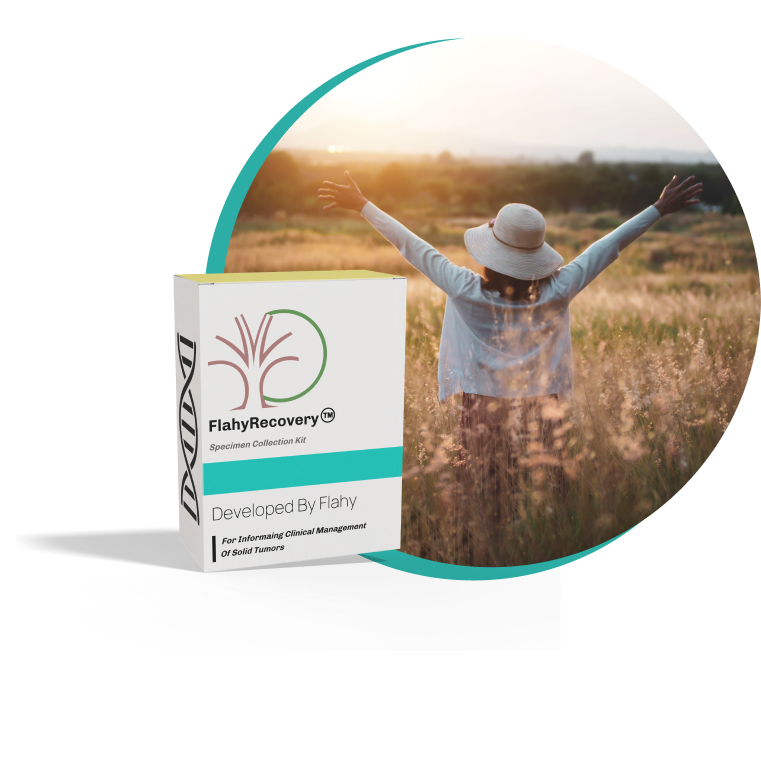
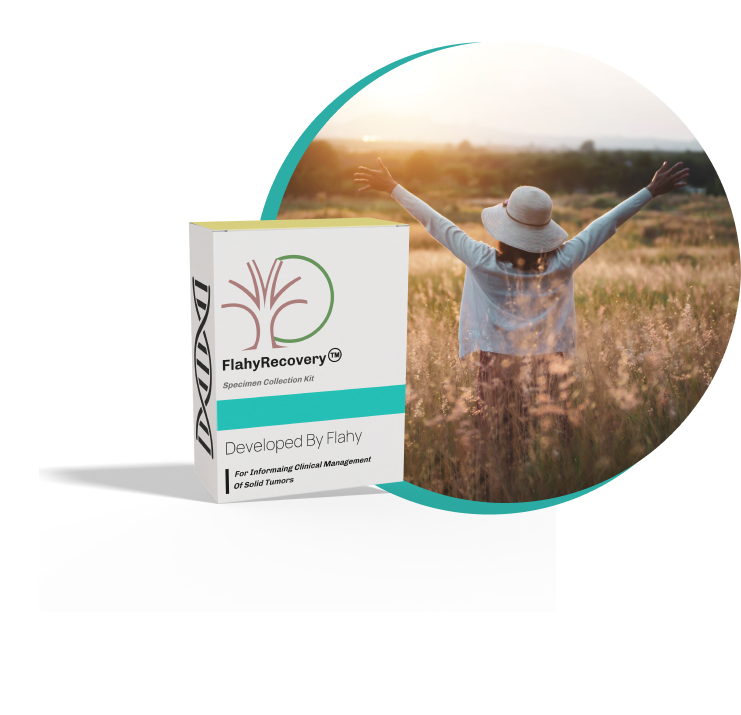
Coming soon pages' UI fixes

Changed region(s): [[0.031, 0.0308, 1.0, 0.7692], [0.9001, 0.1538, 0.9312, 0.1846]]

diff --git a/src/components/LandingPage.js b/src/components/LandingPage.js
@@ -1,19 +1,64 @@
-import React, { useRef } from 'react';
+import React, { useRef, useState } from 'react'; // <-- Make sure to import useState here
 import '../styles/LandingPage.css';
 import HomeEffect from './HomeEffect';
 
 const LandingPage = () => {
     const emailSectionRef = useRef();
     const emailRef = useRef(null);
+    const [email, setEmail] = useState(""); // Track email input
+    const [loading, setLoading] = useState(false); // Track submission state
+    const [error, setError] = useState(""); // Track error message
+    const [success, setSuccess] = useState(""); // Track success message
+    // Email validation regex pattern
+    const emailPattern = /^[a-zA-Z0-9._%+-]+@[a-zA-Z0-9.-]+\.[a-zA-Z]{2,}$/;
+
     const handleRegisterClick = () => {
         if (emailRef.current) {
             emailRef.current.scrollIntoView({ behavior: "smooth" });
             emailRef.current.focus();
         }
-        if (emailSectionRef) {
+        if (emailSectionRef.current) {
             emailSectionRef.current.classList.add("focussed");
         }
-    }
+    };
+
+    const handleSubmit = async () => {
+        setError(""); // Clear any previous error
+        setSuccess(""); // Clear any previous success
+
+        // Validate email format
+        if (!email || !emailPattern.test(email)) {
+            setError("Please enter a valid email address.");
+            return;
+        }
+
+
+        setLoading(true);
+
+        try {
+            const response = await fetch("https://api-flahyrecovery.lusites.xyz/show-interest", {
+                method: "POST",
+                headers: {
+                    "Content-Type": "application/json",
+                },
+                body: JSON.stringify({ email }), // Sending email as JSON payload
+            });
+
+            if (response.ok) {
+                setSuccess("We will contact you soon!");
+                setEmail(""); // Clear the input after successful submission
+            } else {
+                const errorData = await response.json();
+                setError(errorData.message || "There was an issue. Please try again.");
+            }
+        } catch (error) {
+            console.error("Error sending email:", error);
+            setError("Something went wrong. Please try again later.");
+        } finally {
+            setLoading(false);
+        }
+    };
+
     return (
         <>
             <HomeEffect />
@@ -28,6 +73,7 @@ const LandingPage = () => {
                 </header>
 
                 <div className="content">
+                <img className="circle-bg" src="/bg-circle.png" alt="FlahyRecovery" />
                     <div className="container coming-soon">
                         <div className="text-section">
                             <h1>Coming Soon..</h1>
@@ -37,9 +83,8 @@ const LandingPage = () => {
                             <p>
                                 <span>
                                     FlahyRecovery™ is an algorithmic immune subtyping test that leverages
-                                    Artificial Intelligence to analyze the Tumor Microenvironment (TME).
-                                </span>
-                                The report aids in designing a precise treatment and improving health
+                                    Artificial Intelligence to analyze the <br/>Tumor Microenvironment (TME).
+                                </span> The report aids in designing a precise treatment and improving health
                                 outcomes.
                             </p>
                             <button onClick={handleRegisterClick} className="register-button">Register Interest</button>
@@ -64,12 +109,23 @@ const LandingPage = () => {
                     <div ref={emailSectionRef} className="email-section">
                         <input
                             ref={emailRef}
-                            id='email-input'
                             type="email"
                             placeholder="Enter Your Email for Latest Update"
                             className="email-input"
+                            value={email}
+                            onChange={(e) => setEmail(e.target.value)} // Update email state on change
                         />
-                        <button className="submit-button">Submit</button>
+                        <button
+                            className="submit-button"
+                            onClick={handleSubmit}
+                            disabled={loading} // Disable button while loading
+                        >
+                            {loading ? 'Submitting...' : 'Submit'}
+                        </button>
+                    </div>
+                    <div className='alert-message'>
+                        {error && <p className="error-message">{error}</p>}
+                        {success && <p className="success-message">{success}</p>}
                     </div>
                     <div className="footer-text">
                         <p>2024 © Flahy. All Rights Reserved | Powered By <a rel='noreferrer' target='_blank' href='https://www.flahybase.com'><u>Flahybase.com</u></a></p>

diff --git a/src/styles/LandingPage.css b/src/styles/LandingPage.css
@@ -7,6 +7,7 @@ body {
   font-family: "Montserrat", Inter;
   color: #333;
   background-image: url(../../public/bg.svg);
+  background: radial-gradient(circle at 20% 50%, #FFECB9, transparent 70%), radial-gradient(circle at 80% 50%, #2CAEA6, transparent 70%);
   background-size: cover;
   background-position: center;
   background-repeat: no-repeat;
@@ -34,9 +35,17 @@ body {
 .header {
   padding: 10px;
   background-color: #fff;
-  z-index: 15;
+  z-index: 9999;
   position: sticky;
   top: 0;
+}
+.circle-bg{
+    position: absolute;
+    width: 1200px;
+    z-index: 999;
+    left: 0;
+    top: 0;
+    opacity: .85;
 }
 
 .logo img {
@@ -59,14 +68,14 @@ body {
   align-items: center;
   justify-content: space-around;
   padding: 20px;
-  height:780px;
+  min-height: calc(100vh - 283px);
 }
 
 .text-section {
-  z-index: 10;
+  z-index: 999;
   text-align: left;
   background-image: url("/public/shadowBg.png");
-  background-color: rgb(255 255 255 / 57%);
+  /* background-color: rgb(255 255 255 / 57%); */
   padding: 45px 25px;
   border-radius: 10px;
   background-size: cover;
@@ -157,7 +166,7 @@ body {
   padding: 20px;
   background: #fff;
   text-align: center;
-  z-index: 10;
+  z-index: 9999;
 }
 
 .footer p {
@@ -218,7 +227,23 @@ body {
   padding-top: 25px;
   margin-bottom: 0;
 }
-
+.alert-message {
+  display: flex;
+    align-items: center;
+    max-width: 448px;
+    margin: 0 auto;
+}
+.alert-message  p {
+  margin: 5px 0;
+  color: #007c00;
+  font-size: 14px;
+  font-weight: 400;
+}
+.alert-message p.error-message {
+  color: #ff0000cc;
+  font-size: 14px;
+  font-weight: 400;
+}
 /* Responsive Styles */
 @media (max-width: 1599px) {
   .product-box img {
@@ -227,6 +252,13 @@ body {
   .content {
     height: 600px;
   }
+}
+@media (min-width: 1660px) {
+.content {
+    height: calc(100vh - 320px);
+    min-height: auto;
+  }
+  
 }
 
 @media all and (max-width: 1280px) {
@@ -239,6 +271,9 @@ body {
 }
 
 @media all and (max-width: 991px) {
+  .circle-bg {
+    width: 700px;
+  }
   .container {
     flex-direction: column;
     align-items: flex-start;
@@ -274,9 +309,19 @@ body {
 
 }
 @media (max-width: 768px) {
-  .content {
-    flex-direction: column;
-  }
+  body {
+    color: #333;
+    background-image: url(http://localhost:3000/static/media/bg.95bde9c54bb2106d6393.svg);
+}
+.circle-bg{
+  display: none;
+}
+.content {
+  padding: 50px 0px 0px 0px;
+  align-items: baseline;
+  height: auto;
+  flex-direction: column;
+}
   .text-section h1 {
     font-size: 26px;
 }
@@ -296,5 +341,14 @@ body {
   .image-circle {
     margin-right: 0;
     margin-bottom: 20px;
+  }
+}
+
+@media (max-width: 480px) {
+  .email-input, .email-input:focus {
+    font-size: 14px;
+  }
+  .submit-button, .submit-button:hover {
+    padding: 13px 13px;
   }
 }

diff --git a/public/index.html b/public/index.html
@@ -24,7 +24,7 @@
       work correctly both with client-side routing and a non-root public URL.
       Learn how to configure a non-root public URL by running `npm run build`.
     -->
-    <title>Flahy Recovery</title>
+    <title>FlahyRecovery</title>
   </head>
   <body>
     <noscript>You need to enable JavaScript to run this app.</noscript>
